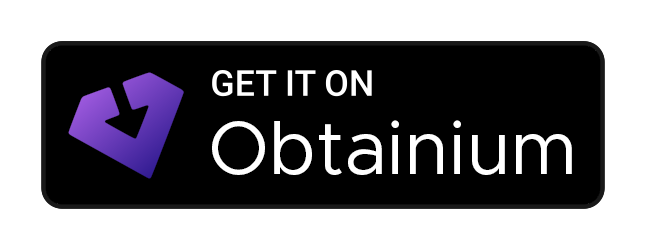
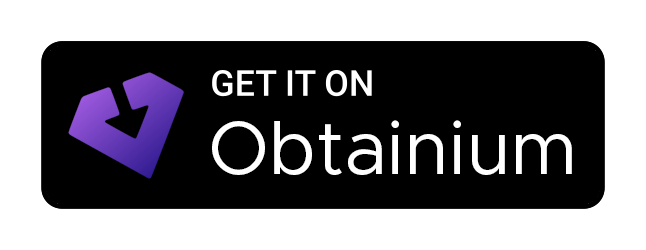
docs(readme): vendor install badges with pure black keyline
Both badges are retinted from the alpha<255 edge mask (5px dilation): greyscale pixels in the 40-200 band and the outermost antialias colour go to #000000, so the frame reads as one solid black border with no pale fringe over a white page. Purple logo and white wordmark untouched. The GitHub badge is now local instead of hotlinked.

Changed region(s): [[0.0619, 0.168, 0.9288, 0.84], [0.9288, 0.224, 0.9598, 0.784]]

diff --git a/README.md b/README.md
@@ -19,7 +19,7 @@ Notes app with a chat-like interface and end-to-end encrypted cloud backup/sync.
 *   **Android via Obtainium** — Import this repo straight from source and get automatic updates on release.
 *   **Other Platforms (Planned)** — Support for Windows, Linux, macOS, and iOS will be evaluated in the future.
 
-[<img src="https://raw.githubusercontent.com/mateusz-bak/openreads/master/doc/github/get-it-on-github.png"
+[<img src="graphic/get-it-on-github.png"
     alt="Get it on Github"
     height="80">](https://github.com/FarhanZafarr-9/ntsapp/releases/)
 [<img src="graphic/obtainium-badge.png"
